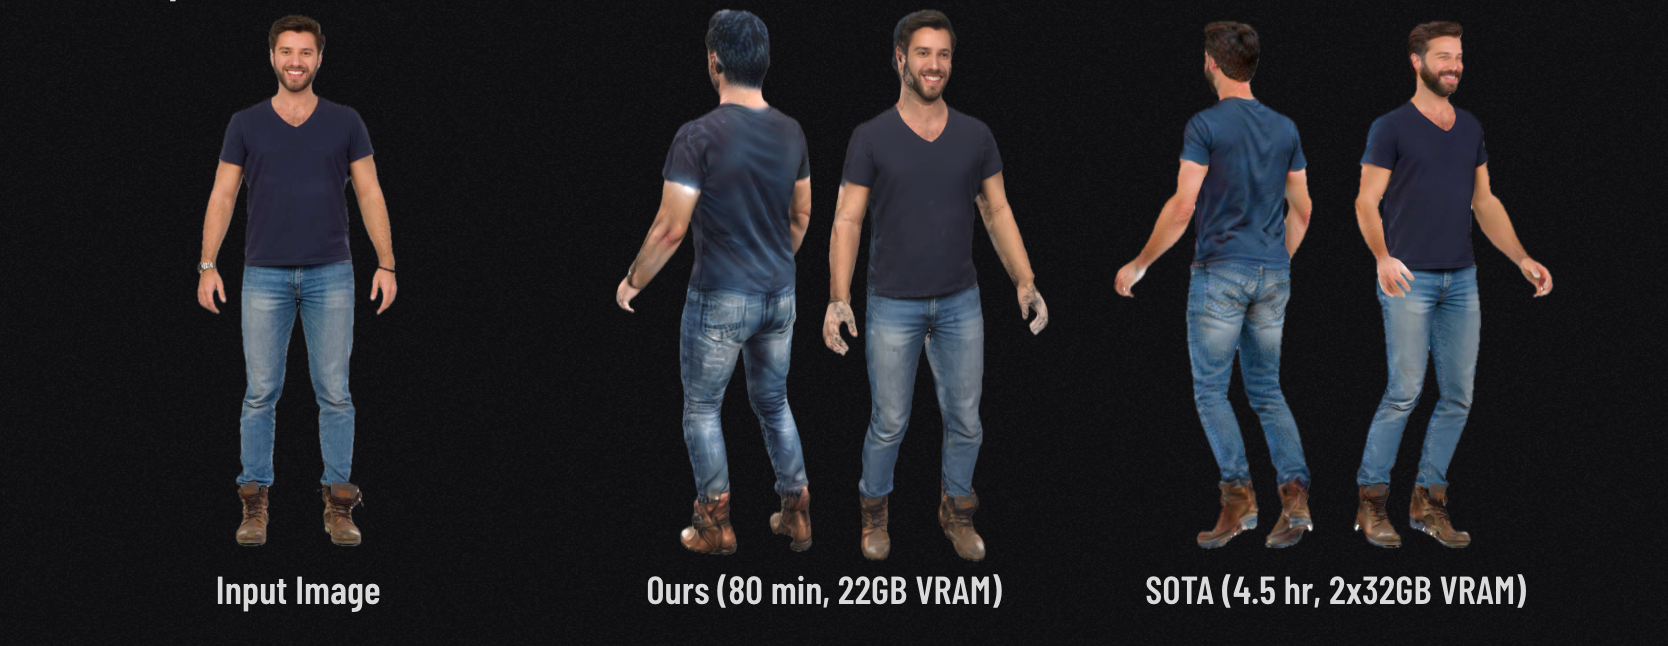
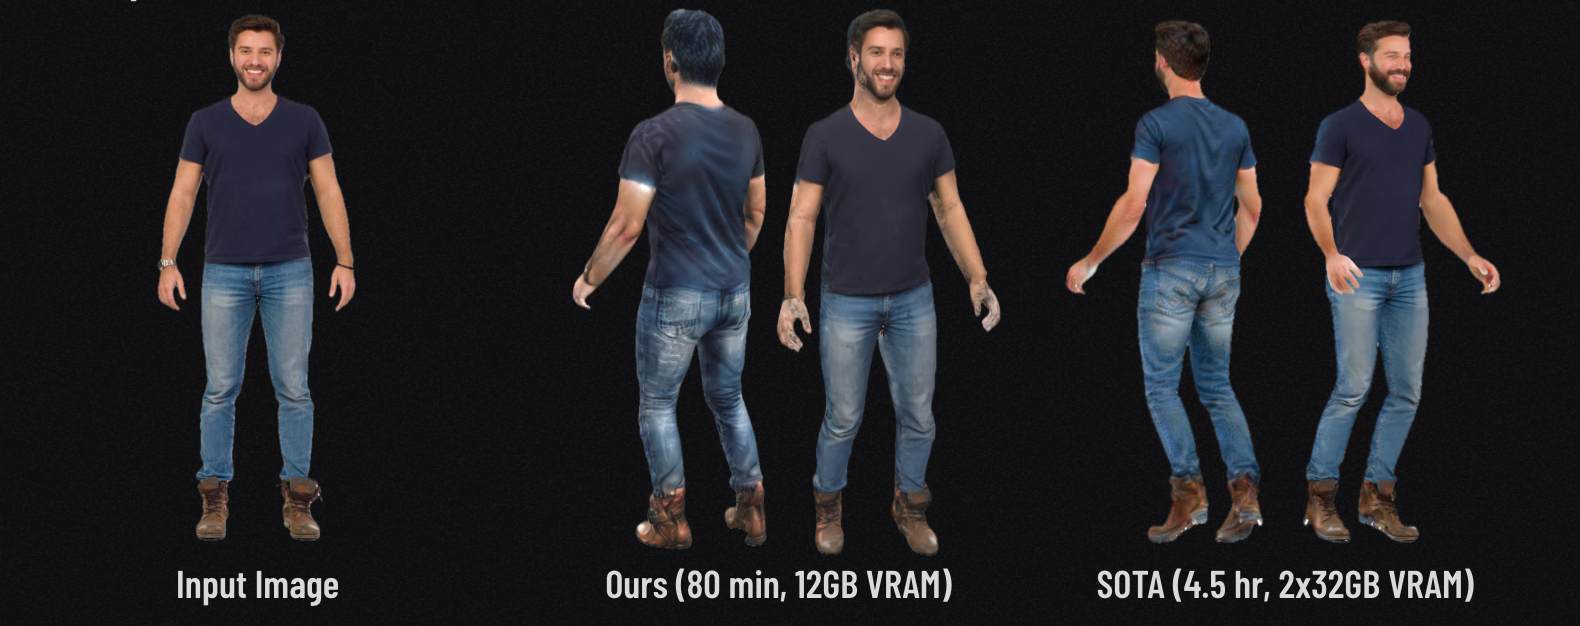
Updates

diff --git a/index.html b/index.html
@@ -4,7 +4,7 @@
     <meta charset="UTF-8" />
     <link rel="icon" type="image/svg+xml" href="/assets/icon/favicon.png" />
     <meta name="viewport" content="width=device-width, initial-scale=1.0" />
-    <meta name="version" content="202505131349" />
+    <meta name="version" content="202505132301" />
     <title>Howard</title>
     <script type="module" crossorigin src="/assets/index-BDDZmZfY.js"></script>
     <link rel="stylesheet" crossorigin href="/assets/index-BYQRKRuh.css">
